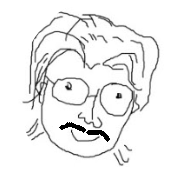
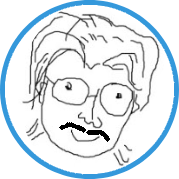
Updated styling, added delete modal

Changed region(s): [[0.0, 0.0, 1.0, 1.0]]

diff --git a/templates/index.html b/templates/index.html
@@ -23,7 +23,7 @@
                 <p>Paste URL from <u><strong>Manga Chapter List</strong></u> Below to Add</p>
                 <form action="{{ url_for('manga.add_manga') }}" method="POST" class="form-inline">
                     <input type="text" name="url" id="url" placeholder="Enter manga URL here" required>
-                    <button type="submit">Add Manga</button>
+                    <button type="submit">Add</button>
                 </form>
 
                 {% with messages = get_flashed_messages(with_categories=true) %}
@@ -48,32 +48,35 @@
                     <h2>Manga List</h2>
                     <ul>
                         {% for manga in manga_list %}
-                            <li class="{% if manga['new_chapters_count'] > 0 %}updated-chapters{% endif %}">
-                                <strong>{{ manga['title'] }}</strong><br>
-                                Latest Chapter: {{ manga['latest_chapter_title'] }}<br>
-                
-                                <label for="chapter_select_{{ manga['id'] }}">Read Chapter:</label>
-                                <select id="chapter_select_{{ manga['id'] }}" name="chapter"
-                                        onchange="updateChapterLink({{ manga['id'] }})">
-                                    {% for chapter in manga['chapters'] %}
-                                        <option value="{{ chapter['url'] }}" {% if loop.first %}selected{% endif %}>
-                                            {{ chapter['chapter_title'] }}
-                                        </option>
-                                    {% endfor %}
-                                </select><br>
-                
-                                {% if manga['new_chapters_count'] > 0 %}
-                                    <span class="new-chapters"># {{ manga['new_chapters_count'] }} new chapter(s)!</span><br>
-                                {% endif %}
-                
+                        <li class="{% if manga['new_chapters_count'] > 0 %}updated-chapters{% endif %}">
+                            <strong>{{ manga['title'] }}</strong><br>
+                            Latest Chapter: {{ manga['latest_chapter_title'] }}<br>
+
+                            <label for="chapter_select_{{ manga['id'] }}">Read Chapter:</label>
+                            <select id="chapter_select_{{ manga['id'] }}" name="chapter"
+                                onchange="updateChapterLink({{ manga['id'] }})">
+                                {% for chapter in manga['chapters'] %}
+                                <option value="{{ chapter['url'] }}" {% if loop.first %}selected{% endif %}>
+                                    {{ chapter['chapter_title'] }}
+                                </option>
+                                {% endfor %}
+                            </select><br>
+
+                            {% if manga['new_chapters_count'] > 0 %}
+                            <span class="new-chapters"># {{ manga['new_chapters_count'] }} new chapter(s)!</span><br>
+                            {% endif %}
+
+                            <div class="manga-links">
                                 <a id="read_link_{{ manga['id'] }}" href="#" target="_blank">
                                     Read on MangaPill
-                                </a> |
-                                <a href="{{ url_for('manga.delete_manga', id=manga['id']) }}">Delete</a>
-                            </li>
+                                </a>
+                                <a href="#"
+                                    onclick="confirmDelete('{{ manga['id'] }}', '{{ manga['title'] }}')">Delete</a>
+                            </div>
+                        </li>
                         {% endfor %}
                     </ul>
-                </div>                
+                </div>
 
 
                 <div class="scroll-box-logs">
@@ -93,6 +96,16 @@
                 </div>
             </div>
         </div>
+
+        <div id="deleteModal" class="modal">
+            <div class="modal-content">
+                <span class="close" onclick="closeModal()">&times;</span>
+                <h2>Confirm Deletion</h2>
+                <p id="modal-text">Are you sure you want to delete this manga?</p>
+                <button id="confirmDeleteBtn">✓</button>
+                <button onclick="closeModal()">✕</button>
+            </div>
+        </div>
 </body>
 
 <footer class="site-footer">
@@ -108,11 +121,33 @@
         linkElement.href = selectedUrl;
     }
 
-    document.addEventListener("DOMContentLoaded", function() {
+    document.addEventListener("DOMContentLoaded", function () {
         {% for manga in manga_list %}
-            updateChapterLink({{ manga['id'] }});
-        {% endfor %}
+        updateChapterLink({{ manga['id'] }});
+    {% endfor %}
     });
+
+    function confirmDelete(mangaId, mangaTitle) {
+        document.getElementById("deleteModal").style.display = "block";
+
+        document.getElementById("modal-text").innerText = `Are you sure you want to delete "${mangaTitle}"?`;
+
+        document.getElementById("confirmDeleteBtn").onclick = function () {
+            window.location.href = `/delete/${mangaId}`;
+        };
+    }
+
+    function closeModal() {
+        document.getElementById("deleteModal").style.display = "none";
+    }
+
+    // Close modal when clicking outside of it
+    window.onclick = function (event) {
+        let modal = document.getElementById("deleteModal");
+        if (event.target == modal) {
+            closeModal();
+        }
+    };
 </script>
 
 </html>

diff --git a/static/styles.css b/static/styles.css
@@ -22,6 +22,13 @@ body {
     position: relative;
 }
 
+button.check-updates-btn {
+    font-family: 'Bangers', sans-serif;
+    font-weight: 200;
+    font-size: x-large;
+    padding: 1vh;
+}
+
 .wrap p {
     text-align: center;
     font-size: 1.1em;
@@ -89,11 +96,14 @@ body {
     margin: 0;
     text-align: center;
     background-color: #f9f9f9;
-    padding: .5vh 0;
+    padding: 0;
     margin-bottom: 1vw;
     border-bottom: solid 2px #ccc;
     width: 100%;
-    z-index: 2;
+    z-index: 1;
+    font-family: 'Bangers', sans-serif;
+    font-weight: 200;
+    font-size: xx-large;
 }
 
 .scroll-box-manga ul {
@@ -113,6 +123,21 @@ body {
     border: 1px solid #ccc;
     box-shadow: 0 2px 6px rgba(0, 0, 0, 0.1);
     box-sizing: border-box;
+}
+
+strong {
+    font-family: 'Bangers', sans-serif;
+    font-weight: 100;
+    font-size: 1.3em;
+}
+
+.scroll-box-logs strong {
+    font-size: 1.1em;
+}
+
+.scroll-box-manga li a {
+    display: block;
+    margin-top: .7vh;
 }
 
 .scroll-box-manga li.updated-chapters {
@@ -143,7 +168,10 @@ body {
     margin-bottom: 1vw;
     border-bottom: solid 2px #ccc;
     width: 100%;
-    z-index: 2;
+    z-index: 1;
+    font-family: 'Bangers', sans-serif;
+    font-weight: 200;
+    font-size: xx-large;
 }
 
 .logs ul {
@@ -177,7 +205,7 @@ body {
     right: 20px;
     background-color: #f44336;
     color: white;
-    padding: 10px 20px;
+    padding: 10px;
     font-size: 1em;
     text-decoration: none;
     border-radius: 5px;
@@ -185,6 +213,9 @@ body {
     box-shadow: 0 4px 8px rgba(0, 0, 0, 0.2);
     transition: background-color 0.3s;
     z-index: 10;
+    font-family: 'Bangers', sans-serif;
+    font-weight: 200;
+    font-size: larger;
 }
 
 .logout-btn:hover {
@@ -211,8 +242,10 @@ body {
 }
 
 .form-inline button {
-    padding: 12px;
-    font-size: 1em;
+    width: 10vw;
+    padding-bottom: 2vh;
+    padding-top: 1vh;
+    max-height: 5vh;
     font-weight: bold;
     background-color: #3498db;
     color: white;
@@ -220,7 +253,9 @@ body {
     border-radius: 8px;
     cursor: pointer;
     transition: background-color 0.3s;
-    height: 100%;
+    font-family: 'Bangers', sans-serif;
+    font-weight: 100;
+    font-size: x-large;
 }
 
 .form-inline button:hover {
@@ -297,7 +332,68 @@ select {
     margin-top: 2vh;
 }
 
+.modal {
+    display: none;
+    position: fixed;
+    z-index: 1;
+    left: 0;
+    top: 0;
+    width: 100%;
+    height: 100%;
+    background-color: rgba(0, 0, 0, 0.5);
+}
+
+.modal-content {
+    background-color: white;
+    padding: 20px;
+    border-radius: 10px;
+    width: 300px;
+    text-align: center;
+    position: fixed;
+    top: 50%;
+    left: 50%;
+    transform: translate(-50%, -50%);
+    box-shadow: 0px 4px 10px rgba(0, 0, 0, 0.2);
+}
+
+.modal-content h2 {
+    margin: 0;
+    padding: 0;
+    font-size: 1.5em;
+    color: #333;
+    font-family: 'Bangers', sans-serif;
+    font-size: xx-large;
+    font-weight: 300;
+}
+
+.modal-content button {
+    background-color: #f44336;
+    color: white;
+    margin: 1vw;
+    width: 9vw;
+    height: 5vh;
+    font-size: 1em;
+    text-decoration: none;
+    border-radius: 5px;
+    cursor: pointer;
+    box-shadow: 0 4px 8px rgba(0, 0, 0, 0.2);
+    transition: background-color 0.3s;
+}
+
+.close {
+    position: absolute;
+    right: 10px;
+    font-size: 20px;
+    cursor: pointer;
+}
+
 @media (max-width: 768px) {
+
+    .form-inline button {
+        width: 20vw;
+        padding: 1vh;
+    }
+
     .title {
         display: flex;
         align-items: center;
